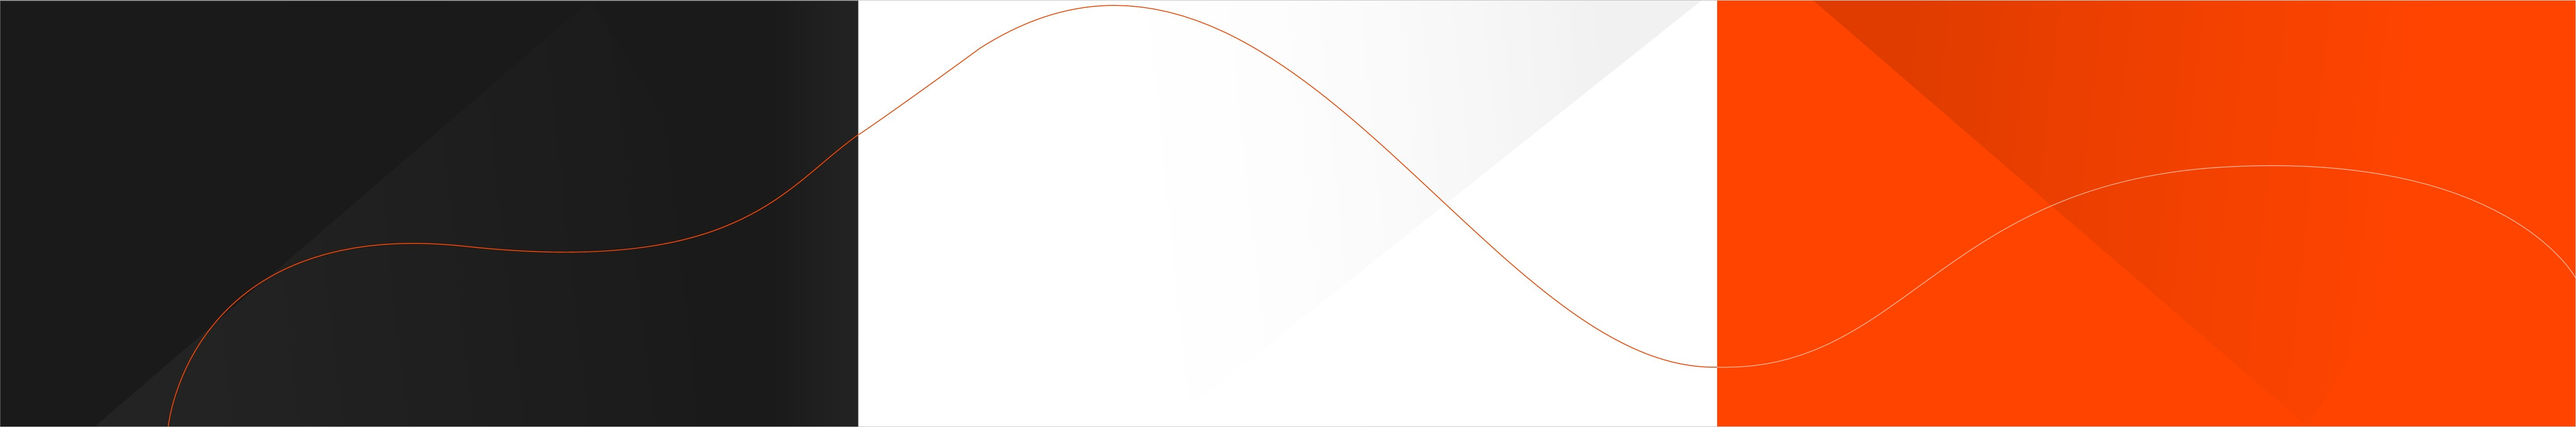
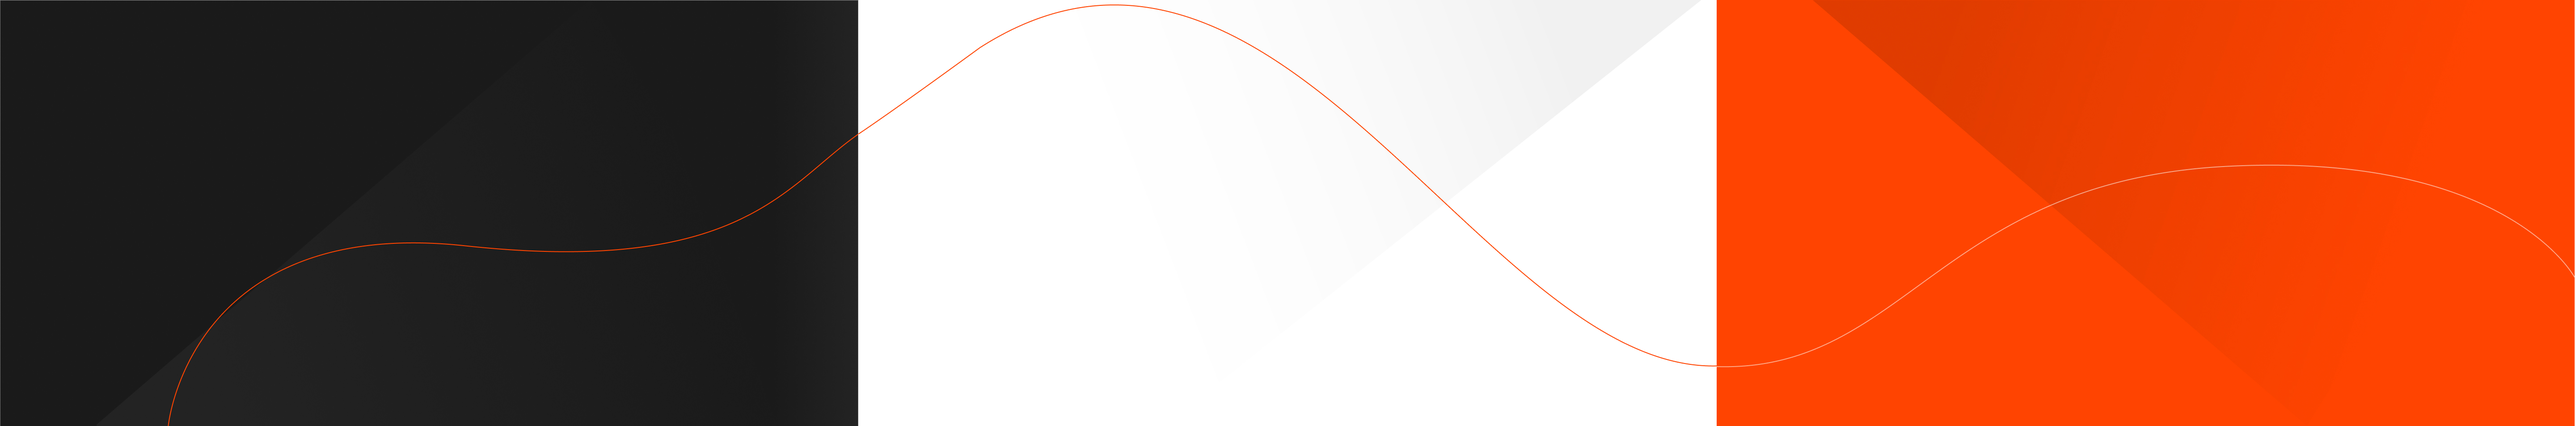
fix: bg animation with svg

diff --git a/src/assets/styles/promotion.scss b/src/assets/styles/promotion.scss
@@ -199,7 +199,7 @@
     @include desktop-xl {
       width: 5760px;
       height: 2868px;
-      background: url("../../assets/images/bg/promotions/promotion-slide.svg") no-repeat center;
+      background: url("../../assets/images/bg/promotions/promotion-slide.jpg") no-repeat center;
       background-size: 300% 100%;
     }
   }
